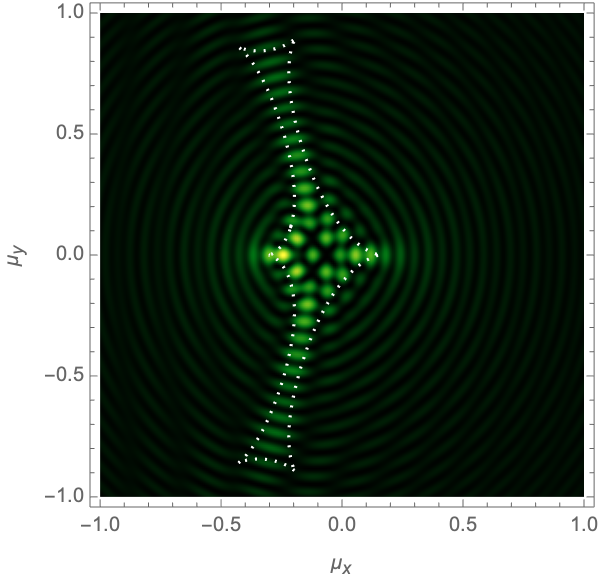
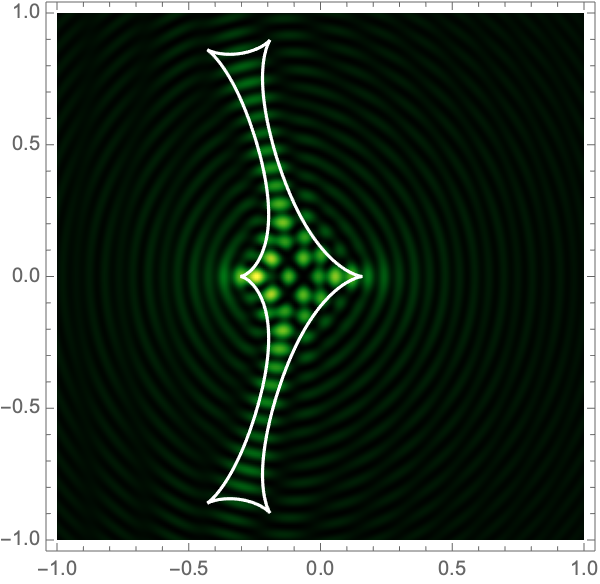
more figures

diff --git a/docs/Gravitational_Lens.html b/docs/Gravitational_Lens.html
@@ -215,9 +215,51 @@ Fig. 6 - The Picard-Lefschetz diagram in the complex <span class="math inline">\
 </figure>
 <p>The amplitude is now expressed as an angular integral over a compact domain which we evaluate using conventional integration techniques</p>
 <p><span class="math display">\[\psi(\boldsymbol{\mu}) = \frac{\nu}{4\pi i} \int_0^{2\pi} g_{\sigma}(\boldsymbol{\mu}) \mathrm{d}\sigma.\]</span></p>
-<p>For an illustration of the intensity map for lens strenghts <span class="math inline">\(f_1=1/3, f_2=2/3\)</span>, seperation <span class="math inline">\(a=0.4,0.5,\)</span> and <span class="math inline">\(0.6\)</span> and the frequencies <span class="math inline">\(\nu=25,50,75,\)</span> and <span class="math inline">\(100\)</span> see Fig. 7.</p>
+<p>For an illustration of the intensity map for lens strenghts <span class="math inline">\(f_1=1/3, f_2=2/3\)</span>, with a seperation <span class="math inline">\(a=0.1,0.2,\dots,1.0\)</span>, and the frequencies <span class="math inline">\(\nu=25,50,75,\)</span> and <span class="math inline">\(100\)</span> see Fig. 7.</p>
 <figure>
 <table align="left" width="100%" id="FIG">
+<tr>
+<td>
+<img src='figures_GL/Intensity_a=0.1_nu=25.png' width=100% />
+</td>
+<td>
+<img src='figures_GL/Intensity_a=0.1_nu=50.png' width=100% />
+</td>
+<td>
+<img src='figures_GL/Intensity_a=0.1_nu=75.png' width=100% />
+</td>
+<td>
+<img src='figures_GL/Intensity_a=0.1_nu=100.png' width=100% />
+</td>
+</tr>
+<tr>
+<td>
+<img src='figures_GL/Intensity_a=0.2_nu=25.png' width=100% />
+</td>
+<td>
+<img src='figures_GL/Intensity_a=0.2_nu=50.png' width=100% />
+</td>
+<td>
+<img src='figures_GL/Intensity_a=0.2_nu=75.png' width=100% />
+</td>
+<td>
+<img src='figures_GL/Intensity_a=0.2_nu=100.png' width=100% />
+</td>
+</tr>
+<tr>
+<td>
+<img src='figures_GL/Intensity_a=0.3_nu=25.png' width=100% />
+</td>
+<td>
+<img src='figures_GL/Intensity_a=0.3_nu=50.png' width=100% />
+</td>
+<td>
+<img src='figures_GL/Intensity_a=0.3_nu=75.png' width=100% />
+</td>
+<td>
+<img src='figures_GL/Intensity_a=0.3_nu=100.png' width=100% />
+</td>
+</tr>
 <tr>
 <td>
 <img src='figures_GL/Intensity_a=0.4_nu=25.png' width=100% />
@@ -260,9 +302,65 @@ Fig. 6 - The Picard-Lefschetz diagram in the complex <span class="math inline">\
 <img src='figures_GL/Intensity_a=0.6_nu=100.png' width=100% />
 </td>
 </tr>
+<tr>
+<td>
+<img src='figures_GL/Intensity_a=0.7_nu=25.png' width=100% />
+</td>
+<td>
+<img src='figures_GL/Intensity_a=0.7_nu=50.png' width=100% />
+</td>
+<td>
+<img src='figures_GL/Intensity_a=0.7_nu=75.png' width=100% />
+</td>
+<td>
+<img src='figures_GL/Intensity_a=0.7_nu=100.png' width=100% />
+</td>
+</tr>
+<tr>
+<td>
+<img src='figures_GL/Intensity_a=0.8_nu=25.png' width=100% />
+</td>
+<td>
+<img src='figures_GL/Intensity_a=0.8_nu=50.png' width=100% />
+</td>
+<td>
+<img src='figures_GL/Intensity_a=0.8_nu=75.png' width=100% />
+</td>
+<td>
+<img src='figures_GL/Intensity_a=0.8_nu=100.png' width=100% />
+</td>
+</tr>
+<tr>
+<td>
+<img src='figures_GL/Intensity_a=0.9_nu=25.png' width=100% />
+</td>
+<td>
+<img src='figures_GL/Intensity_a=0.9_nu=50.png' width=100% />
+</td>
+<td>
+<img src='figures_GL/Intensity_a=0.9_nu=75.png' width=100% />
+</td>
+<td>
+<img src='figures_GL/Intensity_a=0.9_nu=100.png' width=100% />
+</td>
+</tr>
+<tr>
+<td>
+<img src='figures_GL/Intensity_a=1.0_nu=25.png' width=100% />
+</td>
+<td>
+<img src='figures_GL/Intensity_a=1.0_nu=50.png' width=100% />
+</td>
+<td>
+<img src='figures_GL/Intensity_a=1.0_nu=75.png' width=100% />
+</td>
+<td>
+<img src='figures_GL/Intensity_a=1.0_nu=100.png' width=100% />
+</td>
+</tr>
 </table>
 <figcaption>
-Fig. 7 - The intensity of the binary system with lens strength <span class="math inline">\(f_1=1/3, f_2=2/3\)</span>, separation <span class="math inline">\(a=0.4,0.5,\)</span> and <span class="math inline">\(0.6\)</span> (respectively from the upper to the lower rows), and the frequencies <span class="math inline">\(\nu=25,50,75,\)</span> and <span class="math inline">\(100\)</span> (respectively from left to right). The white curve is the caustic of the geometric optics approximation.
+Fig. 7 - The intensity of the binary system with lens strength <span class="math inline">\(f_1=1/3, f_2=2/3\)</span>, separation <span class="math inline">\(a=0.1,0.2\dots,1.0\)</span> (respectively from the upper to the lower rows), and the frequencies <span class="math inline">\(\nu=25,50,75,\)</span> and <span class="math inline">\(100\)</span> (respectively from left to right). The white curve is the caustic of the geometric optics approximation.
 </figcaption>
 </figure>
 </body>
